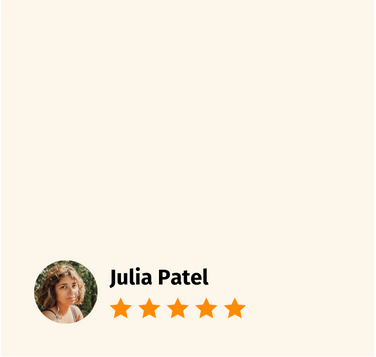
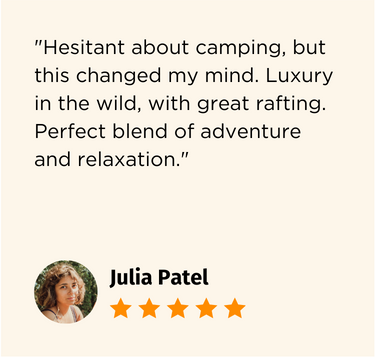
Added new page for siteplan as well as css

diff --git a/wwr/rafting_subpage_camping/camping.html b/wwr/rafting_subpage_camping/camping.html
@@ -1,79 +1,109 @@
-
 <!DOCTYPE html>
 <html lang="en">
 <head>
     <meta charset="UTF-8">
-    <meta http-equiv="X-UA-Compatible" content="IE=edge">
     <meta name="viewport" content="width=device-width, initial-scale=1.0">
-    <title>Whitewater Rafting Vacations | Dry Oar Boating | Home</title>
-    <link rel="stylesheet" href="styles/style.css">
+    <title>Your Website Title</title>
+    <link rel="stylesheet" href="styles/styles.css">
 </head>
-    <body>
-        <div id="content">
-            <header>
-                <a id="logo_link" href="index.html">
-                    <img class="logo" src="images/logo.png" alt="Dry Oar Logo">
-                </a>
-                <nav>
-                    <a href="index.html">Home</a>
-                    <a href="#">Page 2</a>
-                    <a href="site-plan-rafting.html">Site Plan</a>
-                    <a href="contactus.html">Contact Us</a>
-                </nav>
-            </header>
-            <div id="hero">
-                <div id="hero-box">
-                    <img id="hero-img" src="images/hero.jpg" alt="People enjoying white water rafting">
-                </div>
-                <section id="hero-msg">
-                    <h1 class="home-title">Have An Adventure</h1>
-                    <h4>Make Memories with Dry Oar </h4>
-                    <div class='button-box'>
-                        <a class='book' href="contactus.html">Book Now</a>
-                    </div>
-                </section>
-            </div>
-            <main class="home-grid">
-            <section class="rivers-card">
-                <img class="card-img" src="images/rivers.jpg" alt="river in forest">
-                <img class="icon" src="images/river_icon.png" alt="river icon">
-                <h2>Rivers</h2>
-            </section>
-            <section class="camping-card">
-                <img class="card-img" src="images/camping.jpeg" alt="tent in mountains">
-                <img class="icon" src="images/fire_icon.png" alt="fire icon">
-                <h2>Camping</h2>
-            </section>
-            <section class="rapids-card">
-                <img class="card-img" src="images/rapids.jpeg" alt="rafting boat">
-                <img class="icon" src="images/oars.png" alt="oars icon">
-                <h2>Rapids</h2>
-            </section>
-            <div id="background"></div>
-            <img class="mountains" src="images/mountains.jpg" alt="Snowy mountains with rapids">
-            <section class="msg">
-                <h2>More Than Just The Thrill</h2>
-                <p>Enjoy the breathtaking scenery. From valleys, meadows, canyons, and high peaks; it's way more than just the rapids. It's a great way to get away from it all and relax amongst all the beauty of the great outdoors. </p>
-                <a class='join' href="rivers.html">Join Us</a>
-            </section>
-        </main>
-        <footer>
-        <p>Dry Oar &copy; 2024 - Zeke Ellis</p>
-        <p><a href="site-plan-rafting.html">Site Plan</a></p>
-        <p><a href="contactus.html">Contact Us</a></p>
-        <div class="icon">
-                <a href="https://facebook.com" target="_blank">
-                    <img src="images/facebook.jpg" alt="fb icon">
-                </a>
-                <a href="https://twitter.com" target="_blank">
-                    <img src="images/twitter.png" alt="twitter icon">
-                </a>
-                <a href="https://instagram.com" target="_blank">
-                    <img src="images/instagram.png" alt="instagram icon">
-                </a>
-        </div>
-            </div>
-        </footer>
+<body>
+
+    <!-- Mountainscape Section -->
+    <section id="mountainscape">
+        <div class="image-container">
+        <img id="landing-img" src="images/landing_image.png" alt="beautiful mountainscape">
+        <a href="booking-page.html" class="book-now-image">
+            <img src="images/book_now_button.png" alt="Book Now">
+        </a>
     </div>
+    </section>
+
+    <!-- Camping Made Easy Section -->
+    <section id="camping-easy">
+        <div class="text-container">
+            <h2>Camping made easy</h2>
+            <p>At our white water rafting company, we make camping effortless. Our packages include pre-set, comfortable campsites in stunning locations, equipped with all essentials. From the moment you arrive, your only task is to relax and enjoy nature. We handle the details, ensuring a seamless blend of adventure and ease, perfect for both seasoned campers and first-timers looking to create lasting memories under the stars.</p>
+            <div class="buttons">
+                <a href="index.html" class="Promo-left">
+                    <img src="images/promo_button.png" alt="Book Now">
+                </a> <!-- Corrected -->
+                <a href="booking-page.html" class="book-now-image-right">
+                    <img src="images/book_now_button.png" alt="Book Now">
+                </a>
+            </div>
+        </div>
+        <img src="images/camping_made_easy.png" alt="Woman Camping">
+    </section>
+
+    <!-- Summer Deals Promo Section -->
+    <section id="summer-deals">
+        <h2>Summer Deals Promo</h2>
+        <div class="packages">
+            <!-- Example Package -->
+            <div class="package_1">
+                <img src="images/nature_escape.png" alt="Nature Escape">
+                <div class="package-info-1">
+                    <p>Round trip airfare 4D/3N Twin share room Half board meals Guided nature tour Welcome drink</p>
+                    <a href="booking-page.html" class="book-now-image-pack-1">
+                        <img src="images/book_now_button.png" alt="Book Now">
+                    </a> <!-- Corrected -->
+                </div>
+            </div> <!-- Corrected: Moved closing div here for package_1 -->
+            <div class="package_2">
+                <img src="images/romantic_getaway.png" alt="romantic_getaway">
+                <div class="package-info-2">
+                    <p>Round trip airfare 4D/3N Twin share room Full board meals Spa & massage session Couples meditation</p>
+                    <a href="booking-page.html" class="book-now-image-pack-2">
+                        <img src="images/book_now_button.png" alt="Book Now">
+                    </a> <!-- Corrected -->
+                </div>
+            </div> <!-- Corrected: Moved closing div here for package_2 -->
+            <div class="package_3">
+                <img src="images/family_vacation.png" alt="Nature Escape">
+                <div class="package-info-3">
+                    <p>Round trip airfare 4D/3N Family suite Full board meals Guided nature tour Choice group activity</p>
+                    <a href="booking-page.html" class="book-now-image-pack-3">
+                        <img src="images/book_now_button.png" alt="Book Now">
+                    </a> <!-- Corrected -->
+                </div>
+            </div> <!-- Corrected: Moved closing div here for package_3 -->
+        </div>
+    </section>
+
+    <!-- Reviews Section -->
+    <section id="reviews">
+        <div class="reviews_from_you">
+            <img src="images/reviews_from_you.png">
+        </div>
+        <div class="review-images">
+            <!-- Example Review -->
+            <div class="review_1">
+                <img src="images/natalia_review.png" alt="natalia_review">
+            </div> <!-- Corrected: Moved closing div here for review_1 -->
+            <div class="review_2">
+                <img src="images/noah_review.png" alt="noah_review">
+            </div> <!-- Corrected: Moved closing div here for review_2 -->
+            <div class="review_3">
+                <img src="images/julia_review.png" alt="julia_review">
+                </div>
+            </div>
+        </div>
+    </section>
+
+    <!-- Contact Us Section -->
+    <section id="contact">
+        <img src="images/plan_your_next_trip.png" alt="Contact Image">
+        <div class="contact-headers">
+            <p>Address</p>
+            <p>Contact Us</p>
+            <p>Office Hours</p>
+        </div>
+        <div class="contact-info">
+            <p>123 Adventure Lane</p>
+            <p>Telephone: (123) 456-7890 Mobile: (123) 456-7890 hello@reallygreatsite.com</p>
+            <p>Monday: 8am – 7pm Tuesday: 8am – 5pm Wednesday: 8am – 5pm Thursday: 8am – 7pm Friday: 8am – 5pm</p>
+        </div>
+    </section>
+
 </body>
 </html>

diff --git a/wwr/rafting_subpage_camping/styles/styles.css b/wwr/rafting_subpage_camping/styles/styles.css
@@ -1,0 +1,140 @@
+/* General Styles */
+body, html {
+    max-width: 1440px;
+    scroll-behavior: smooth;
+    display: grid;
+    grid-template-rows: auto;
+}
+
+section {
+    width: 100%;
+    display: flex;
+    flex-direction: column;
+    align-items: center;
+    text-align: center;
+}
+
+img {
+    width: 100%;
+    height: auto;
+}
+.book-now {
+    background-image: url('images/book_now_button');
+}
+
+
+/* Mountainscape Section */
+#mountainscape .image-container{
+    position: relative;
+    max-width: 100%;
+}
+
+#mountainscape img#landing-img{
+    width: 100%;
+}
+
+#mountainscape .book-now-image {
+    width: 10%;
+    position: absolute;
+    bottom: 120px;
+    left: 50%;
+    transform: translateX(-50%);
+}
+
+/* Camping Made Easy Section */
+#camping-easy {
+    display: grid;
+    grid-template-columns: 1fr, 1fr, 1fr;
+    justify-content: space-between;
+    align-items: center;
+    padding: 50px;
+    background-color: #fdf6ea;
+    height: 480px;
+}
+
+#camping-easy .text-container{
+    flex: 1;
+    grid-column: 1;
+}
+
+#camping-easy img {
+    width: 100%%;
+    grid-column: 2;
+    
+    
+}
+
+#camping-easy .buttons {
+    display: flex;
+    justify-content: space-between;
+    margin-top: 20px;
+}
+
+/* Summer Deals Promo Section */
+#summer-deals .packages {
+    display: grid;
+    grid-template-columns: repeat(3,1fr);
+    gap: 20px;
+    background-color: #504128;
+}
+
+.package-info-1 {
+    position: absolute;
+    bottom: 60px; /* Adjust based on your needs */
+    background-color: rgba(255,255,255,0.8); /* Semi-transparent background */
+    width: 100%;
+    padding: 10px;
+}
+
+.package-info button {
+    position: absolute;
+    bottom: 10px;
+    left: 50%;
+    transform: translateX(-50%);
+    background-image: image('images/book_now_button');
+}
+
+.package_1, .package_2, .package_3 {
+    position: relative;
+    margin: 20px;
+}
+
+/* Reviews Section */
+.review-images p {
+    position: absolute;
+    bottom: 10px;
+    left: 50%;
+    transform: translateX(-50%);
+    width: 100%; /* Adjust based on your needs */
+    color: #000000; /* Assuming white text for visibility */
+    padding: 10px;
+    display: grid;
+    grid-template-columns: repeat(3,1fr);
+    grid-template-rows: 1fr;
+    gap: 20px;
+}
+
+#reviews_from_you{
+    width: 100%;
+}
+
+.review_1, .review_2, .review_3 {
+    position: relative;
+    margin: 20px;
+}
+
+/* Contact Us Section */
+#contact {
+    display: flex;
+    justify-content: space-between;
+    padding: 50px;
+    background-color: #504128;
+}
+
+#contact img {
+    flex: 1;
+}
+
+.contact-headers, .contact-info {
+    flex: 1;
+}

diff --git a/the_mana_vault/site-plan.html b/the_mana_vault/site-plan.html
@@ -157,21 +157,21 @@
 
       <h3>Home</h3>
       <p>         
-        [Any additional details about home that the wireframe does not make clear]
+        [Home page for new information]
       </p>
-      <img src="#" alt="home page wireframe">
+      <img src="Home.png" alt="home page wireframe">
 
       <h3>[Page 2]</h3>
       <p>         
         [Any additional details about page 2 that the wireframe does not make clear]
       </p>
-      <img src="#" alt="page 2 wireframe">
+      <img src="articles_page_2.png" alt="A collection of news articles for cedh content">
 
       <h3>[Page 3]</h3>
       <p>         
         [Any additional details about page 3 that the wireframe does not make clear]
       </p>
-      <img src="#" alt="page 3 wireframe">
+      <img src="database_page_3.png" alt="Decklist database">
     </main>
   </body>
 
